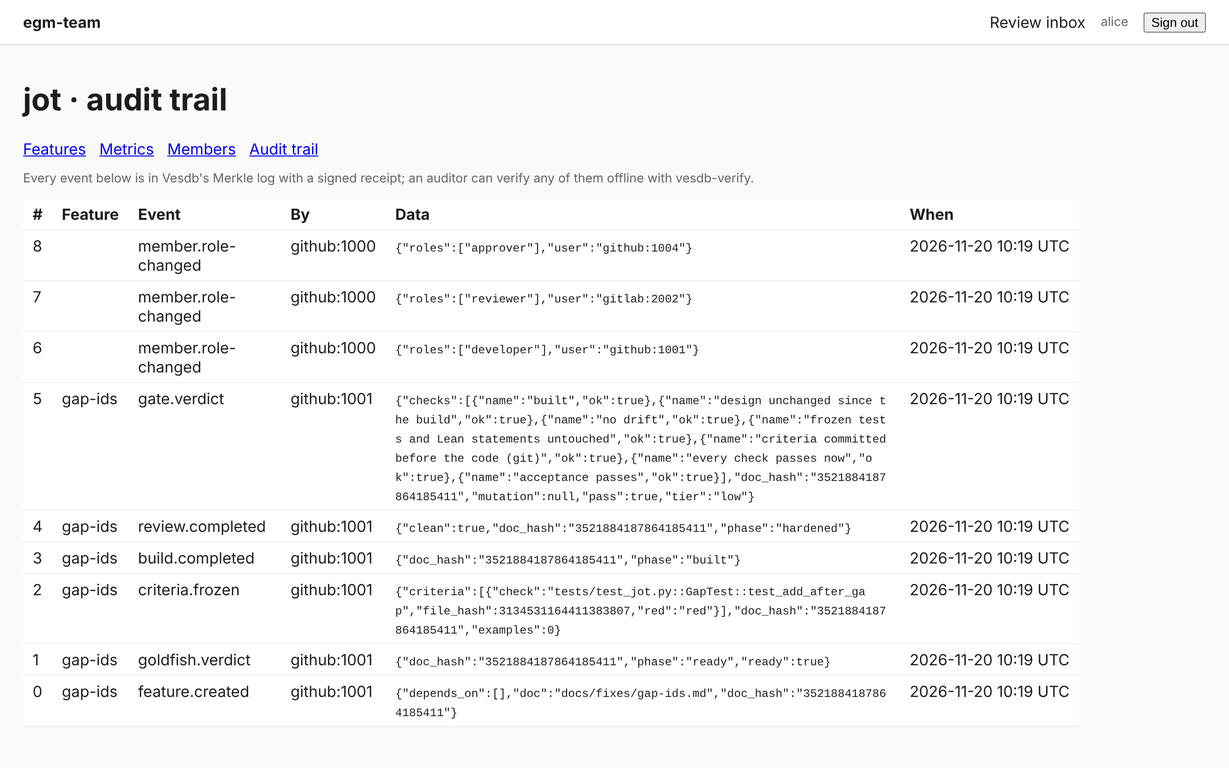
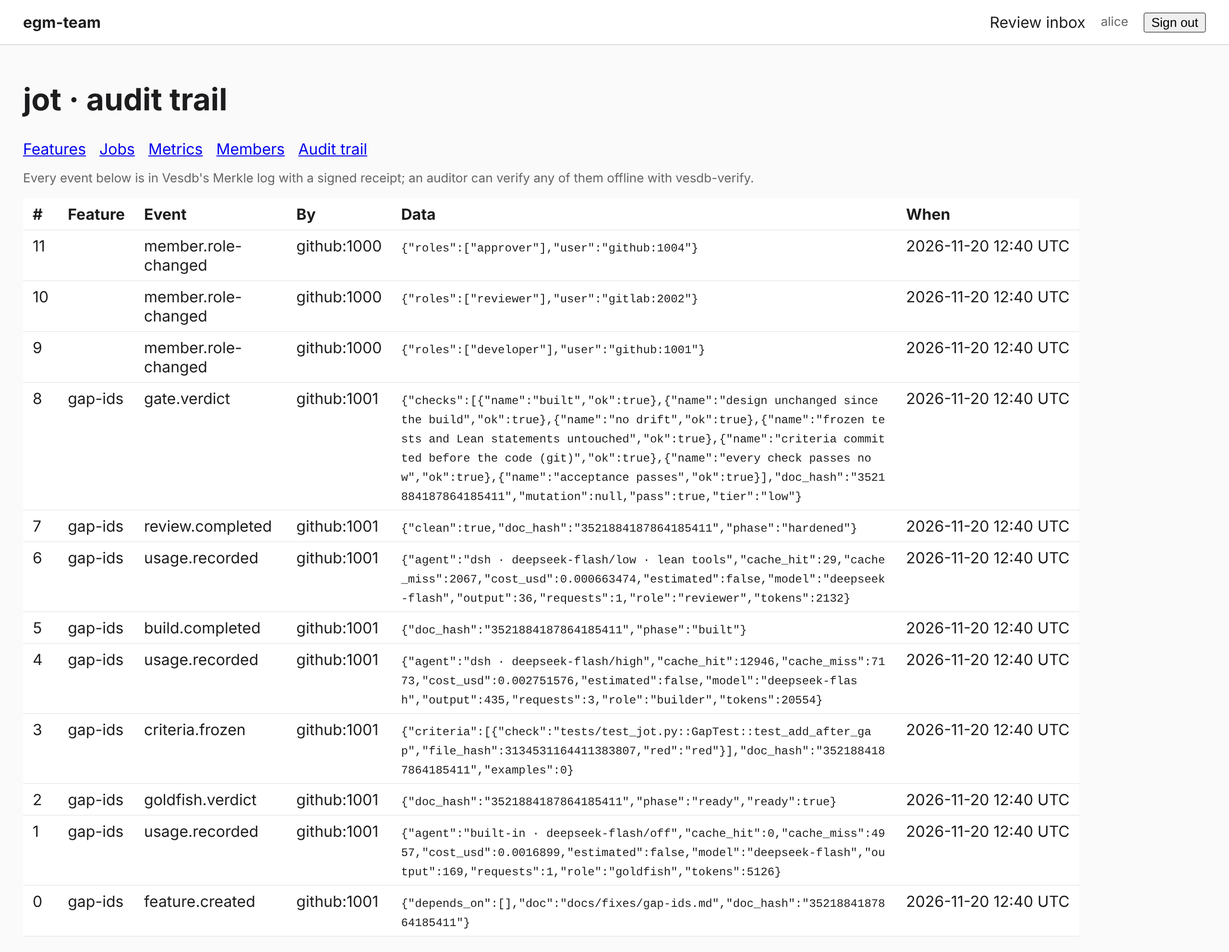
egm-team phase 4: docs, screenshots, job page styling
User guide: running egm-dsh from the browser, cost and the monthly
ceiling, [worker] configuration, job states, new event types, guarantees
and troubleshooting. README: egm-team section, guarantees rows, limits.
Seven new screens; the earlier ones retaken with the Jobs tab.

Claude-Session: https://claude.ai/code/session_019wJcE8fM3f5GXPqLozudE2

diff --git a/crates/egm-web/src/jobs.rs b/crates/egm-web/src/jobs.rs
@@ -170,11 +170,13 @@ pub async fn job_page(cx: &Cx) -> Result<impl View> {
             <p class="muted" id="job-position">(format!("{position} job(s) of this project run first; one job runs at a time per project."))</p>
         }
         if !j.detail.is_empty() { <p class="bad" id="job-detail">(&j.detail)</p> }
-        <div id="log" data-job=(j.id.to_string()) data-project=(p) data-after=(after.to_string()) data-state=(&j.state)>
-            for (_, speaker, text) in &lines {
-                <div class=(format!("line sp-{speaker}"))><span class="who">(speaker.as_str())</span><span class="text">(text.as_str())</span></div>
-            }
-        </div>
+        if !(lines.is_empty() && j.state == "done") {
+            <div id="log" data-job=(j.id.to_string()) data-project=(p) data-after=(after.to_string()) data-state=(&j.state)>
+                for (_, speaker, text) in &lines {
+                    <div class=(format!("line sp-{speaker}"))><span class="who">(speaker.as_str())</span><span class="text">(text.as_str())</span></div>
+                }
+            </div>
+        }
         if j.state != "done" { <p class="muted">"This page follows the job as it runs."</p> }
         <script src="/static/job.js" defer="defer"></script>
     })

diff --git a/crates/egm-web/src/app.rs b/crates/egm-web/src/app.rs
@@ -68,6 +68,10 @@ pre{white-space:pre-wrap;background:#fff;border:1px solid #ddd;padding:12px}\
 td code{white-space:pre-wrap;word-break:break-all;font-size:12px}.nowrap{white-space:nowrap}\
 .ok{color:#176f2c}.bad{color:#b3261e}.muted{color:#666;font-size:13px}nav.tabs a{margin-right:14px}\
 pre{overflow-wrap:anywhere}\
+#log{background:#111;color:#ddd;font:13px ui-monospace,Menlo,monospace;padding:10px 12px;border-radius:6px;overflow-x:auto}\
+#log .line{display:flex;gap:10px;padding:1px 0}#log .who{flex:0 0 72px;color:#8ab4f8;text-align:right}\
+#log .text{white-space:pre-wrap;overflow-wrap:anywhere;min-width:0}#log .sp-ok .text{color:#7ee2a8}#log .sp-warn .text,#log .sp-error .text{color:#ff8a80}\
+#log .sp-elephant .who{color:#c9a6ff}#log .sp-goldfish .who{color:#ffc062}\
 @media (max-width:600px){main,header{padding:10px 16px}table{display:block;overflow-x:auto}.nowrap{white-space:normal}}";
 
 #[layout("/")]

diff --git a/docs/USER_GUIDE.md b/docs/USER_GUIDE.md
@@ -155,7 +155,7 @@ egm-dsh set-ceiling 2000000      # refuse a round whose estimate would cross thi
 
 ### 10. Send your work to the team app
 
-Until the web app runs egm-dsh itself (*not yet*, phase 4), record events while you work and push them to the audit log:
+The simplest way is to work in the team app itself (Part 2, "Run egm-dsh from the browser"): every step is then recorded for you. If you run egm-dsh on your own machine instead, record events while you work and push them to the audit log:
 
 ```sh
 egm-dsh --events events.jsonl goldfish rate-limit     # --events works with every command
@@ -179,10 +179,24 @@ Open the address your admin gave you and choose **Sign in with GitHub** or **Sig
 | **Projects** (home) | The projects you belong to, with their feature count |
 | **Features** (`/p/<project>`) | The board: one column per phase, newest change first. A red line on a card means the feature's history in the audit log contains a step the gate refuses; tell your admin |
 | **Feature** (click a card) | The design doc as it is in the checkout; its git revisions (click one to read the doc as it was then); every goldfish review round with its verdict and how many alarms it kept; the evidence gate's checks, risk tier and seeded-bug score; the feature's audit history |
+| **Jobs** (`/p/<project>/jobs`) | Every egm-dsh job run from the app: queued, running, done, failed or refused, with its tokens. Click one to read its output |
 | **Review inbox** (header link) | Features waiting for your review in every project where you review: built, the evidence gate passed for the current doc, not yet approved, not written by you. Highest risk first |
 | **Metrics** | Features by phase, goldfish and evidence-gate verdict counts; the goldfish MCC from reviewers' labels; human minutes per feature, measured from activity in the app |
 | **Members** | Who holds which roles in the project |
 | **Audit trail** | Every recorded event of the project, newest first. Each one is in Vesdb's tamper-evident log and can be verified offline |
+
+### Run egm-dsh from the browser
+
+Developers drive a feature from the app instead of a terminal. Each button queues a **job**. A worker runs egm-dsh in the team's checkout and writes everything to the audit log, with you as the actor. One job runs at a time per project, oldest first. A job page follows the job as it runs and keeps its output afterwards.
+
+1. **Start a feature.** On the board, open **New feature**, give it a name and the idea. The elephant reads the repository and asks its questions.
+2. **Answer in the Design chat** on the feature page. Each answer is a job; the elephant's reply appears in the chat when it is done.
+3. **Draft the design doc.** With nothing ticked the elephant writes the whole doc; tick sections to redraft only those after the goldfish found a gap.
+4. **Goldfish, Build, Review, Gate** run the same steps as the command line, with the same rules. egm-dsh still decides whether a step may run: a build of a doc no goldfish has passed fails in its job, saying why.
+
+**Cost.** Every model call is recorded as `usage.recorded` with its role, model, token counts and price. The feature page shows the feature's tokens and cost by role. The Metrics page shows each feature's total and the project's tokens this month. With the offline mock agent the counts are estimates, and the page says so.
+
+**Monthly ceiling.** An admin can give a project a token ceiling per calendar month (UTC). The worker checks it before each job starts and refuses the job once the month's use has reached the ceiling; the refusal is recorded with the reason. A job is not stopped part-way, so the job that crosses the ceiling finishes.
 
 ### Work together on a feature
 
@@ -211,13 +225,16 @@ Captured by the browser test (`tests/e2e/run_web_e2e.py`) against real egm-dsh o
 | ![Phone board](screenshots/12-board-phone.png) **Board on a phone** | ![Phone feature](screenshots/13-feature-phone.png) **Feature page on a phone** |
 | ![Review inbox](screenshots/14-review-inbox.png) **Review inbox, highest risk first** | ![Alarm labels and comments](screenshots/15-labels-comments.png) **Labelling alarms, comments** |
 | ![Reviews and merge approval](screenshots/16-review-merge.png) **Reviews and the merge panel** | ![Goldfish MCC](screenshots/17-metrics-mcc.png) **Goldfish MCC from labels, human minutes** |
-| ![Author's view](screenshots/18-author-view.png) **The author's view: no review, no approval** | |
+| ![Author's view](screenshots/18-author-view.png) **The author's view: no review, no approval** | ![New feature](screenshots/19-new-feature.png) **Starting a feature from the board** |
+| ![Job running](screenshots/20-job-running.png) **A job page following a running job** | ![Design chat](screenshots/21-design-chat.png) **The design chat with the elephant** |
+| ![Run panel](screenshots/22-run-jobs-cost.png) **Run buttons and the feature's jobs** | ![Jobs](screenshots/23-jobs-queue.png) **The project's job queue** |
+| ![Refused at the ceiling](screenshots/24-ceiling-refused.png) **A job refused at the monthly ceiling** | ![Cost](screenshots/25-metrics-cost.png) **Tokens this month and cost per feature** |
 
 ### What you can do with each role
 
 | Role | Can (today) | Will be able to |
 |---|---|---|
-| developer | read, comment | start features and run egm-dsh jobs (phase 4) |
+| developer | read, comment, start features, run egm-dsh jobs | |
 | reviewer | read, comment, label alarms, review, approve low- and medium-risk merges | |
 | approver | everything a reviewer can, and approve high-risk merges | export evidence |
 | admin | read | change members, roles and project settings in the app, export evidence |
@@ -228,6 +245,9 @@ Nobody can review or approve a feature they wrote, whatever roles they hold.
 ### When something says no
 
 - **403 Forbidden**: you have no role in that project, or your roles do not allow that action (reviewing your own feature, approving a high-risk merge without the approver role). The refusal is recorded in the audit log with your id and the action.
+- **A job says "failed"**: egm-dsh stopped with an error, shown at the end of the job's output (for example a build refused because no goldfish passed the current doc). Fix what it names and run the step again.
+- **A job says "refused"**: it never started. The reason is on the job page: the project reached its monthly token ceiling, or you no longer hold a role that may run it.
+- **A job says "abandoned"**: the worker stopped while it ran (a restart or crash). Its egm-dsh process stopped with it, so nothing changed unrecorded; run the step again.
 - **"cannot approve yet: …"**: the merge panel's reason, such as no approving review by someone else yet, or a gate that passed for an older doc. The attempt is recorded too.
 - **Sign-in failed**: start again from the sign-in page in the same browser tab. Sign-in links expire after ten minutes and work only in the browser that started them.
 - **The page is out of date**: the app reads new events every second or so. A doc change shows once it is pushed to the team's checkout.
@@ -238,10 +258,11 @@ Nobody can review or approve a feature they wrote, whatever roles they hold.
 
 | Part | Role |
 |---|---|
-| `egm-team serve` | The web app. Stateless apart from Postgres, so you can run more than one |
+| `egm-team serve` | The web app. Stateless apart from Postgres, so you can run more than one. With a `[worker]` section it also runs the worker |
+| `egm-team worker` | The worker alone, for running jobs on another machine. It needs the checkouts, egm-dsh and the model key; run one per deployment (a per-project database lock keeps a second one off a busy project) |
 | PostgreSQL | Views of the audit log, plus sessions. Disposable: `egm-team rebuild` recreates every view from Vesdb |
 | Vesdb | The record. Run it highly available as its README describes: two servers on a shared bucket (`--role auto`), at least one witness under a separate account |
-| The project checkout | A git clone egm-team reads docs, reviews and evidence from, read-only. Keep it current (for example `git pull` on a timer) |
+| The project checkout | The git clone egm-dsh works in. The worker owns it: jobs run there, and the app reads docs, reviews and evidence from it. Initialise it once with `egm-dsh init`, and give it a git identity for build commits |
 | GitHub and/or GitLab OAuth apps | Sign-in |
 
 Put egm-team behind TLS (a load balancer or reverse proxy) and set `public_url` to the `https://` address; session and sign-in cookies are then marked Secure.
@@ -277,6 +298,7 @@ refresh_ms   = 1000                                         # how often to read 
 name     = "my-project"            # letters, digits, - and _
 checkout = "/srv/egm/my-project"
 host     = "github"                # or "gitlab"
+monthly_tokens = 20000000          # optional: refuse jobs once the month's use reaches this
 
 [github]
 client_id = "Iv1.abc"
@@ -285,6 +307,12 @@ client_id = "Iv1.abc"
 [gitlab]
 client_id = "abc"
 base_url  = "https://gitlab.com"   # or your own GitLab
+
+[worker]                           # run egm-dsh jobs from the app
+egm_dsh     = "/usr/local/bin/egm-dsh"
+pass_env    = ["DEEPSEEK_API_KEY"] # what a job may see, beyond PATH, HOME, LANG, LC_ALL, TMPDIR, USER
+timeout_s   = 1800                 # a job still running after this is stopped
+max_parallel = 2                   # jobs at once across projects; always one per project
 
 [mail]                             # optional: notifications
 host     = "smtp.example"
@@ -302,6 +330,8 @@ Secrets come from the environment only:
 | `EGM_GITHUB_CLIENT_SECRET` | Needed when `[github]` is configured |
 | `EGM_GITLAB_CLIENT_SECRET` | Needed when `[gitlab]` is configured |
 | `EGM_SMTP_PASSWORD` | Needed when `[mail]` has a `username` |
+
+A job's process starts with an empty environment plus the allowlist above, so none of egm-team's own secrets (`EGM_*`) can reach a build; the configuration refuses an `EGM_` name in `pass_env`.
 
 A user id is the provider and the provider's numeric id, such as `github:1234` or `gitlab:5678`; it stays the same if they rename their account. Find a GitHub id at `https://api.github.com/users/<login>`, a GitLab id on the user's profile page.
 
@@ -330,6 +360,7 @@ A field-test team of four could be two developers, one reviewer and one approver
 |---|---|
 | Rebuild the views (after a restore, or if in doubt) | `egm-team --config egm-team.toml rebuild` |
 | Back up | Vesdb is the record; follow its backup guidance. Postgres needs no backup: every view is rebuilt from Vesdb, and losing it only signs people out and resets the activity minutes. The mail outbox survives `rebuild`, so nobody is mailed twice |
+| See what jobs did | The project's Jobs page; each job keeps its full output. Output lives in Postgres only (it may quote code) and survives `rebuild` |
 | See failed mail | `SELECT to_addr, subject, error FROM outbox WHERE error IS NOT NULL` in Postgres; egm-team's log names each failure |
 | See refusals and sign-ins | The project's Audit trail page, or read `/egm/_system` and `/egm/<project>` from Vesdb |
 | Upgrade | Topcoat is pinned to 0.12.1 and lives only in `crates/egm-web`; upgrade it there and run the browser test (`tests/e2e/run_web_e2e.py`) |
@@ -369,6 +400,9 @@ The phase printed for each feature must match the board. That it always does is 
 | A merge approval needs a built feature, a gate passed for the current doc and an approving review by someone else | `EgmPolicy.merge_never_self`, `merge_needs_gate`, `merge_needs_other_review`, `merge_high_needs_approver`; `policy.rs` checks every combination; `run_web_e2e.py` (the author's attempts and the reviewer's high-risk approval are refused and recorded) |
 | The goldfish MCC counts every reviewer label exactly once, the latest per alarm | `proofs/EgmLabels.lean`: `confusion_total`, `perfect_agreement`, `relabel_moves_one`; `run_web_e2e.py` (MCC on the page equals the MCC of the clicks, before and after a rebuild) |
 | A person with no role in a project can read nothing in it | `EgmPolicy.read_iff_member`; `run_web_e2e.py` (outsider gets 403 on every page, each refusal recorded) |
+| One job at a time per project, oldest first, and none started at or over the monthly token ceiling | `proofs/EgmQueue.lean`: `start_keeps_one_per_project`, `finish_keeps_one_per_project`, `start_is_oldest`, `start_under_ceiling`, `refuse_only_over`; `queue.rs` checks every queue of up to four jobs; `run_jobs_e2e.py` (no two jot jobs overlap in Vesdb; a job at the ceiling is refused) |
+| The state the app shows from jobs is the state the log replays to | `run_jobs_e2e.py`: egm-dsh's own `status`, `egm-audit replay-vesdb` and the app agree on phase and doc hash; after `rebuild` the feature, chat, jobs, cost and history are the same |
+| A job never sees egm-team's secrets | `worker.rs` unit test of the job environment; `run_jobs_e2e.py` reads every job's environment |
 | Every page checks the policy first | `crates/egm-web/tests/policy_lint.rs` fails the build otherwise |
 | No build without a goldfish pass of the current doc | `proofs/EgmGate.lean` |
 | The record cannot be changed unnoticed | Vesdb's Merkle log, witness-signed checkpoints and offline bundles (proved in Vesdb's repository); `run_audit_e2e.py` (one changed byte fails verification) |
@@ -429,6 +463,10 @@ Stored in Vesdb as `io.egm.<type>`.
 | `alarm.labelled` | egm-team | feature | round, alarm, valid or noise, whether the goldfish kept it, doc hash |
 | `review.submitted` | egm-team | feature | approve or changes, note, doc hash |
 | `merge.approved` | egm-team | feature | doc hash, risk tier |
+| `job.requested` | egm-team | feature | command, its arguments (an idea or answer is the person's words, like a comment); the actor is the person |
+| `job.started` | worker | feature | job id, worker name |
+| `job.finished` | worker | feature | job id, status (ok, failed, refused, timeout, abandoned, error), exit code, tokens, reason |
+| `usage.recorded` | egm-dsh | feature | role, agent, model, token counts, price in dollars (none for an unpriced model) |
 
 Comments and review notes are the one place people's words enter the log, because they are the review record. Planned with later phases: `project.settings-changed`, `export.created`.
 
@@ -457,4 +495,6 @@ Comments and review notes are the one place people's words enter the log, becaus
 | A feature card shows a red line | The audit log holds a gate step the gate refuses: written by something other than egm-dsh | Check the feature's audit history; report it |
 | A built feature is not in the review inbox | The gate has not passed for the current doc, the merge is already approved, or you wrote it | Open the feature: the merge panel says which |
 | No mail arrives | `[mail]` is not configured, your provider account shows no public email, or the SMTP server refused it | Ask the admin to check the outbox (Part 3, step 6) |
+| Jobs stay "queued" | No worker runs: add `[worker]` to the configuration, or start `egm-team worker` | The Jobs page says when the server runs no worker |
+| Every job of one project is refused | The project reached `monthly_tokens` this month | Raise it in the configuration, or wait for the next month (UTC) |
 | Everyone is signed out after a restart | Sessions live in Postgres; a new database means new sessions | Sign in again; nothing in the record is lost |

diff --git a/README.md b/README.md
@@ -18,7 +18,7 @@ It is an independent project. Google publishes its own [Elephant-Goldfish Model 
 
 - **Right-sized models** — every role runs on its own model, reasoning effort and tool list. The default `balanced` preset gives the elephant and the builder DeepSeek V4 Pro and gives the goldfish and the reviewer Flash. `egm-dsh usage` shows what each role cost.
 
-- **A team web app** — `egm-team` lets developers, reviewers and approvers follow every feature in the browser: the board, the design doc and its revisions, goldfish reviews, evidence, metrics and the audit trail. People sign in with GitHub or GitLab, every page checks a Lean-proven policy first, and every change is recorded in [Vesdb](https://github.com/dhaneshkk/test1_vesdb), a tamper-evident audit log. Reviewers comment, label goldfish alarms real or noise (which scores the goldfish by MCC), review and approve merges from a risk-sorted inbox; nobody approves their own work, and a high-risk merge needs the approver. Running egm-dsh from the browser comes next.
+- **A team web app** — `egm-team` lets developers, reviewers and approvers follow every feature in the browser: the board, the design doc and its revisions, goldfish reviews, evidence, metrics and the audit trail. People sign in with GitHub or GitLab, every page checks a Lean-proven policy first, and every change is recorded in [Vesdb](https://github.com/dhaneshkk/test1_vesdb), a tamper-evident audit log. Reviewers comment, label goldfish alarms real or noise (which scores the goldfish by MCC), review and approve merges from a risk-sorted inbox; nobody approves their own work, and a high-risk merge needs the approver. Developers run egm-dsh from the browser too: start a feature, answer the elephant in a chat, then draft, goldfish, build, review and gate, each a job a worker runs one at a time per project, with its log streamed, its tokens and cost counted, and a monthly token ceiling.
 
 **New here?** The [user guide](docs/USER_GUIDE.md) walks through each role step by step: developers on the command line, teammates in the web app, the admin who runs it, and the auditor who checks the record. This README explains how it all works.
 
@@ -935,7 +935,7 @@ egm-audit bundle 0 1 2                            # offline evidence bundle; che
 
 ## egm-team: the team web app
 
-`crates/egm-web` builds `egm-team`, a [Topcoat](https://github.com/tokio-rs/topcoat) web app (pinned to 0.12.1; it needs Rust 1.99 or newer). People sign in and see what egm-dsh and the audit log hold, then review together: comments on doc sections and alarms, valid-or-noise labels on goldfish alarms, reviews that approve or request changes, and merge approval with separation of duties. Running egm-dsh from the browser comes next (phase 4).
+`crates/egm-web` builds `egm-team`, a [Topcoat](https://github.com/tokio-rs/topcoat) web app (pinned to 0.12.1; it needs Rust 1.99 or newer). People sign in and see what egm-dsh and the audit log hold, then review together: comments on doc sections and alarms, valid-or-noise labels on goldfish alarms, reviews that approve or request changes, and merge approval with separation of duties. Developers run egm-dsh itself from the browser: each step is a job that a worker runs in the team's checkout.
 
 | Page | Shows |
 |---|---|
@@ -945,6 +945,7 @@ egm-audit bundle 0 1 2                            # offline evidence bundle; che
 | `/p/<project>/f/<feature>/rev/<commit>` | The doc as it was at that commit |
 | `/p/<project>/metrics` | Features by phase, goldfish and gate verdicts, the goldfish MCC from reviewers' labels (warned below 29 per class), human minutes per feature |
 | `/inbox` | Features waiting for your review, highest risk first |
+| `/p/<project>/jobs`, `/p/<project>/jobs/<id>` | The job queue, and one job's output, followed live while it runs |
 | `/p/<project>/members` | Who holds which roles |
 | `/p/<project>/audit` | Every audit event of the project |
 
@@ -960,6 +961,10 @@ More screens in the [user guide](docs/USER_GUIDE.md#screens).
 
 ![Reviews and the merge panel in egm-team](docs/screenshots/16-review-merge.png)
 
+**Running egm-dsh from the browser.** A New feature form on the board, a Design chat with the elephant, and Draft, Goldfish, Build, Review and Gate buttons on the feature page. Each press writes `job.requested` to Vesdb, with the person as actor. The worker (`[worker]` in the configuration, in the same process as `serve` or alone as `egm-team worker`) picks the next job with `egm_core::queue::pick`: one job at a time per project, oldest first, none once the project has reached its `monthly_tokens` for the month. It runs `egm-dsh --events` in the checkout as a separate process with an empty environment plus an allowlist, so egm-team's secrets never reach a build, and the process dies with the worker. While the job runs, the worker streams its terminal lines to the job page and writes its domain events to Vesdb as the person who queued it. egm-dsh still enforces the gate: a build before a goldfish pass fails in its job. Every model call is a `usage.recorded` event, which gives tokens and cost per feature. Jobs that were running when the worker died are finished as `abandoned`, and queued jobs survive a restart because the queue is the projection of the log.
+
+![The design chat and run buttons in egm-team](docs/screenshots/22-run-jobs-cost.png)
+
 **The policy check.** Every page and route starts with `authz::require` (or `authz::signed_in` for the projects list), which applies `policy.rs`. A refusal is a 403 and a `policy.refused` event in Vesdb. `crates/egm-web/tests/policy_lint.rs` reads the source and fails the build if a handler does not start with the check; Topcoat's shards bypass page guards, so the test covers `#[shard]` and `#[procedure]` too.
 
 ```toml
@@ -974,6 +979,11 @@ admins = ["github:1234"]
 name = "jot"
 checkout = "/srv/egm/jot"
 host = "github"
+monthly_tokens = 20000000           # optional
+
+[worker]                            # optional: run egm-dsh jobs from the app
+egm_dsh = "/usr/local/bin/egm-dsh"
+pass_env = ["DEEPSEEK_API_KEY"]
 
 [github]
 client_id = "Iv1.abc"
@@ -1050,6 +1060,9 @@ The default launcher is `npx -y @deepseek-ai/dsh@latest`; set `"dsh_command"` in
 | An author never reviews or approves their own feature; only an approver approves a high-risk merge; the worker never reviews, approves or changes roles; adding a role never takes an action away | `proofs/EgmPolicy.lean`: `author_never_approves`, `high_risk_needs_approver`, `worker_limited`, `monotone`; `cargo test` (`policy`: the same four facts over all 4,224 cases) |
 | An auditor's export of a feature holds exactly the events the app replays for it; a feature's history only grows at the end; a retried write under one idempotency key is recorded once | `proofs/VesdbLink.lean`: `export_exact`, `history_prefix`, `retry_once` (Vesdb's own `receipt_binding`, `no_fork`, `ack_durable`, `idempotent` are proved in its repository); `run_audit_e2e.py`: pushing twice writes nothing new, a killed writer loses and doubles nothing, `vesdb-verify` fails a bucket with one changed byte |
 | Every egm-team page and route checks the policy before it reads anything; an outsider gets 403 on every project page and each refusal is recorded; sign-ins are recorded before the session starts | `crates/egm-web/tests/policy_lint.rs` (reads every handler; also proves it catches a missing check); `run_web_e2e.py` (Chromium, Postgres 16, Vesdb, fake GitHub and GitLab with PKCE checked, a fake SMTP server: 61 checks) |
+| A job runs one at a time per project, oldest first, and none starts once the project is at its monthly token ceiling | `proofs/EgmQueue.lean`: `start_keeps_one_per_project`, `finish_keeps_one_per_project`, `start_is_oldest`, `start_under_ceiling`, `refuse_only_over`; `cargo test` (`queue`: every queue of up to four jobs); `run_jobs_e2e.py` (no two jobs of a project overlap in Vesdb; a job at the ceiling is refused, recorded) |
+| A full feature, idea to evidence, runs in the browser, and the state the app shows equals the state the log replays to | `run_jobs_e2e.py` (egm-team, its worker, the real egm-dsh on its offline mock agent, Vesdb, Postgres 16, Chromium: 36 checks). egm-dsh's own `status`, `egm-audit replay-vesdb` and the app agree on phase and doc hash; after `rebuild` the feature, chat, jobs, cost and history are unchanged; after the server is killed mid-job, that job is `abandoned` and the queued one runs |
+| A job never sees egm-team's secrets | `worker.rs` unit test; `run_jobs_e2e.py` reads every job's environment |
 | Separation of duties: nobody reviews or approves their own feature; a merge approval needs a built feature, a gate passed for the current doc and an approving review by someone else; a high-risk (or unassessed) merge needs the approver | `proofs/EgmPolicy.lean`: `merge_never_self`, `merge_needs_gate`, `merge_needs_other_review`, `merge_high_needs_approver`; `cargo test` (`policy`: all 6,144 combinations); `run_web_e2e.py` (the author's review, label and approvals are 403 and recorded; the reviewer's high-risk approval is 403; the approver's succeeds) |
 | The goldfish MCC in egm-team counts each labelled alarm once, with its latest label | `proofs/EgmLabels.lean`: `confusion_total`, `perfect_agreement`, `relabel_moves_one`; `run_web_e2e.py` (the page's MCC equals the MCC of the clicks, and survives a rebuild) |
 | The Rust gate matches the Lean model | `cargo test`: all 117,649 event traces up to length 6; the invariant is also asserted on every save |
@@ -1105,7 +1118,10 @@ Cost: about $0.08 per doc and repeat at peak rates. The test split with 3 repeat
 - The elephant's view is a cost control, not a sandbox: a read outside it (by absolute path, or by shell where the preset allows one) is warned about, not refused. Each elephant turn copies the view afresh, which costs time on a very large repository; a scope keeps it small.
 - The word limit is a request to the model; egm-dsh reports overruns but does not cut text. It is the one that should read the project, and it may also read `.egm-dsh/`.
 - The termination proof covers egm's own steps. A human can keep editing the doc forever; each edit only reopens design.
-- egm-team does not run egm-dsh yet, and approving a merge records the approval but does not merge on GitHub or GitLab (phases 4 and 5). Until the worker exists, events reach the app by `egm-dsh --events` plus `egm-audit push`, and docs by keeping the team's checkout current.
+- Approving a merge in egm-team records the approval but does not merge on GitHub or GitLab (phase 5).
+- egm-team's monthly token ceiling is checked before a job starts, not during it, so the job that crosses the ceiling finishes and the project can end the month above it by that job's use. egm-dsh's own per-feature ceiling (`set-ceiling`) still refuses a step whose estimate would cross it.
+- Job output (terminal lines, which may quote code) lives in Postgres only, not in the audit log; Vesdb holds each job's request, start, end, domain events and token counts. Escalation, decisions, `tests` and the fix lane are not yet buttons in the app; run them with the CLI in the checkout and push the events.
+- The worker runs one checkout per project on its own machine; it is not yet sandboxed beyond egm-dsh's own sandbox for agents and checks.
 - The goldfish MCC in egm-team means little until reviewers have labelled at least 29 real and 29 noise alarms; the page says so. Gate MCC needs defects found after merge (phase 5). Human minutes count only time spent in the app, capped at 30 minutes per gap.
 - egm-team is built on Topcoat 0.12, which its authors call experimental. It is pinned exactly and kept in one crate so an upgrade, or a move to axum and htmx, touches only the UI.
 - Vesdb is young (0.1) and has not been independently audited. An auditor may ask for such a review before relying on it.
